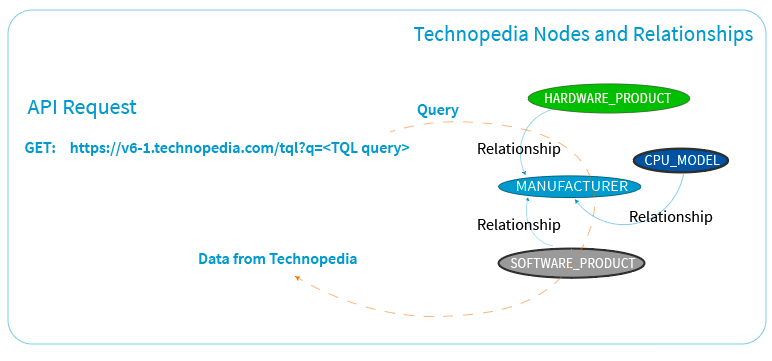
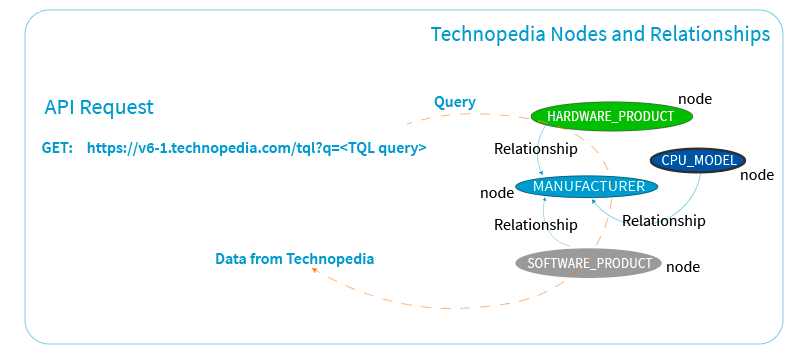
updates

diff --git a/_documentation/Nodes_Rel.md b/_documentation/Nodes_Rel.md
@@ -13,9 +13,7 @@ content_markdown: >-
  
   #### Simple Overview
   
-  You query a data category such as software product (node), and specify the data attribute that you want to query on that node such as `product` (attribute) by specifying attributes. To get related data from other data categories (nodes), you use relationships to connect to other nodes, which enables you to combine other data categories (nodes) in one query. <br>
-  For example, you query the software product category (node) to get data about software products, and if you want to specify specific data, you reference an attribute on the node that stores the data or you can return all data for that node.
-
+  You query a data category such as software product (node), and specify any data attributes such as `product` (attribute) to retrieve data that is strored by that attribute. To get related data from other data categories (nodes), you use relationships to connect to other nodes, which enables you to combine other data categories (nodes) in one query. <br>
   
 
   #### Nodes in Technopedia
@@ -23,12 +21,12 @@ content_markdown: >-
   Nodes are entities in the graph that represent data categories such as hardware or software, and they are the main entity that you target when you query the Technopedia database. <br>
   For example, you might query the manufacturer node to get manufacturer data, or the software product node to get software product data. <br>
   <br>
-  The following list describes node charactertistics:
+  The following list describes node characteristics:
 
   <br> 
    * Represent data categories in Technopedia such as software version or software editon.
    * Have attributes that store data in key-value pairs, for example, `{"edition" : "server"}` or `{"manufacturer" : "Microsoft"}` .
-   * Connect with other nodes through defined relationships so you query multiple nodes on one query.
+   * Connect with other nodes through defined relationships, which enables you to query multiple nodes on one query.
 
    Here's some examples of nodes and relationships:
 

diff --git a/_documentation/tqlqueries1.06.md b/_documentation/tqlqueries1.06.md
@@ -16,7 +16,7 @@ content_markdown: |-
 
   
 
-  #### Using relationships to connect nodes in a query<br>
+  #### Using relationships to get data from multiple nodes <br>
 
   
   Relationships provide connections to other nodes, which enables you to get data from multiple nodes in one query. You connect the nodes by using the relationship that's shown in the database graph. <br>
@@ -432,7 +432,7 @@ right_code_blocks:
   - code_block: |2
       
       Try out the following query examples:
-      
+
       MATCH Node and Attribute Examples:
       __________________________________
       
